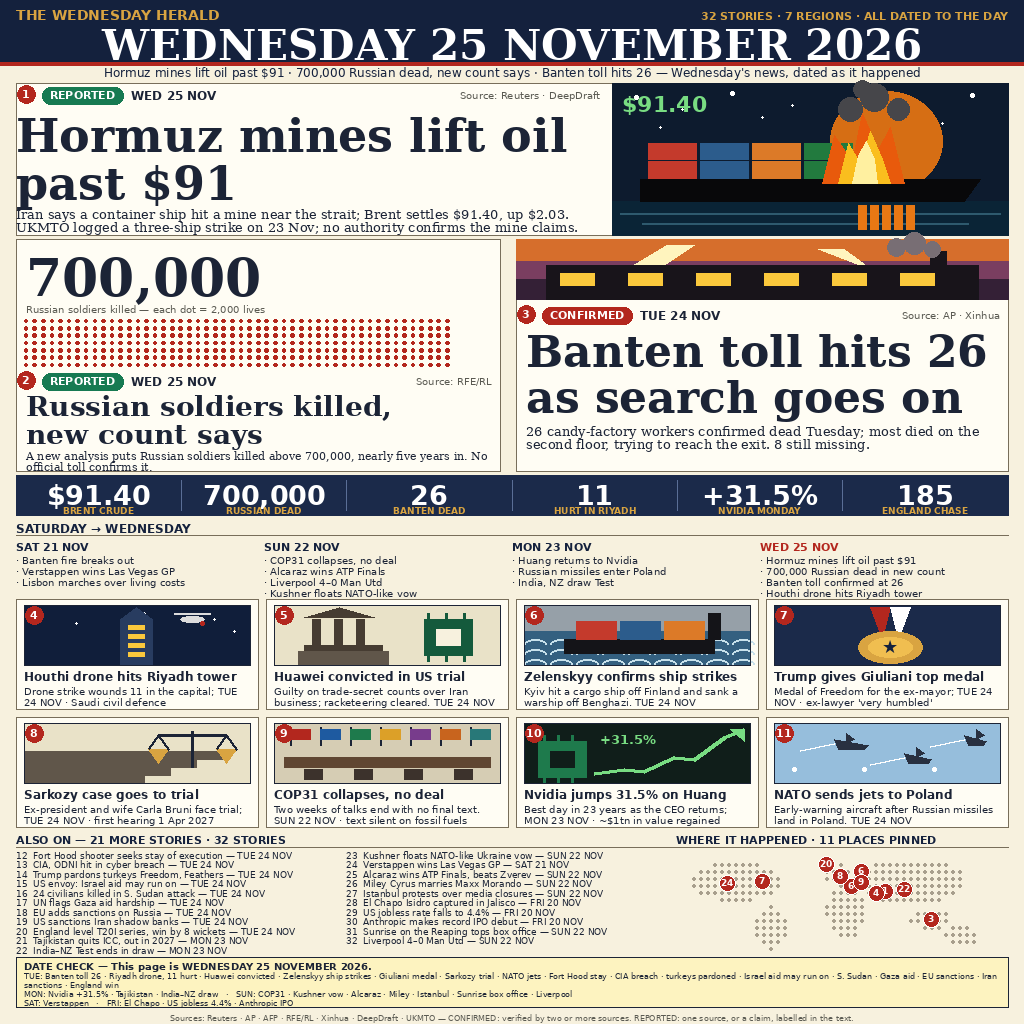
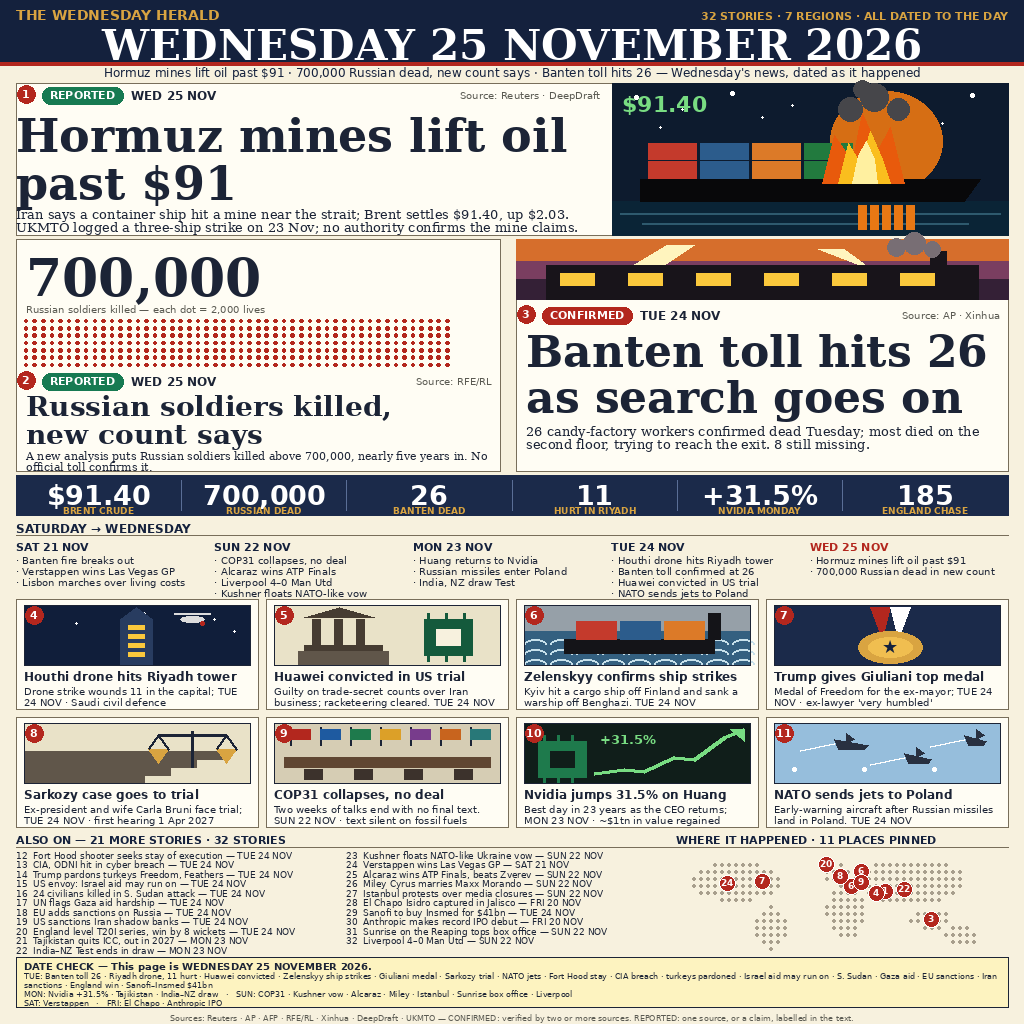
Fix #29: Sanofi buys Insmed $41bn (TUE) replaces false US jobless 4.4%; timeline gains TUE column

diff --git a/render.py b/render.py
@@ -134,8 +134,8 @@ STORIES = [
      "date": "SUN 22 NOV", "day": "SUN", "short": "Istanbul"},
     {"n": 28, "title": "El Chapo Isidro captured in Jalisco",
      "date": "FRI 20 NOV", "day": "FRI", "short": "El Chapo"},
-    {"n": 29, "title": "US jobless rate falls to 4.4%", "date": "FRI 20 NOV",
-     "day": "FRI", "short": "US jobless 4.4%"},
+    {"n": 29, "title": "Sanofi to buy Insmed for $41bn", "date": "TUE 24 NOV",
+     "day": "TUE", "short": "Sanofi–Insmed $41bn"},
     {"n": 30, "title": "Anthropic makes record IPO debut",
      "date": "FRI 20 NOV", "day": "FRI", "short": "Anthropic IPO"},
     {"n": 31, "title": "Sunrise on the Reaping tops box office",
@@ -160,10 +160,12 @@ TIMELINE = [
                     "Liverpool 4–0 Man Utd", "Kushner floats NATO-like vow"]),
     ("MON 23 NOV", ["Huang returns to Nvidia", "Russian missiles enter Poland",
                     "India, NZ draw Test"]),
-    ("WED 25 NOV", ["Hormuz mines lift oil past $91",
-                    "700,000 Russian dead in new count",
+    ("TUE 24 NOV", ["Houthi drone hits Riyadh tower",
                     "Banten toll confirmed at 26",
-                    "Houthi drone hits Riyadh tower"]),
+                    "Huawei convicted in US trial",
+                    "NATO sends jets to Poland"]),
+    ("WED 25 NOV", ["Hormuz mines lift oil past $91",
+                    "700,000 Russian dead in new count"]),
 ]
 
 # Pins: (story number, place, lon, lat). London/Paris nudged a little
@@ -538,7 +540,7 @@ def build():
     d.text((MARGIN, 521), "SATURDAY → WEDNESDAY", font=F(SANS_B, 12),
            fill=NAVY)
     rule(d, MARGIN, 535, W - 2 * MARGIN)
-    col_w = (W - 2 * MARGIN) / 4
+    col_w = (W - 2 * MARGIN) / 5
     for ci, (day, items) in enumerate(TIMELINE):
         cx = MARGIN + col_w * ci
         color = RED if day.startswith("WED") else NAVY

diff --git a/verify.py b/verify.py
@@ -21,7 +21,7 @@ from PIL import Image
 
 import render
 
-EXPECTED_COUNTS = {"TUE": 16, "MON": 3, "SUN": 7, "SAT": 1, "FRI": 3}
+EXPECTED_COUNTS = {"TUE": 17, "MON": 3, "SUN": 7, "SAT": 1, "FRI": 2}
 EXPECTED_STATS = ["$91.40", "700,000", "26", "11", "+31.5%", "185"]
 
 
